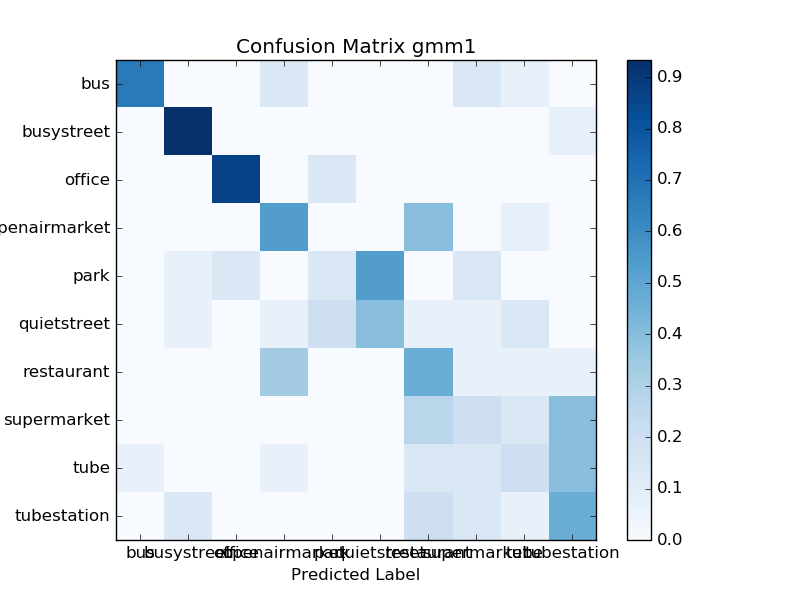
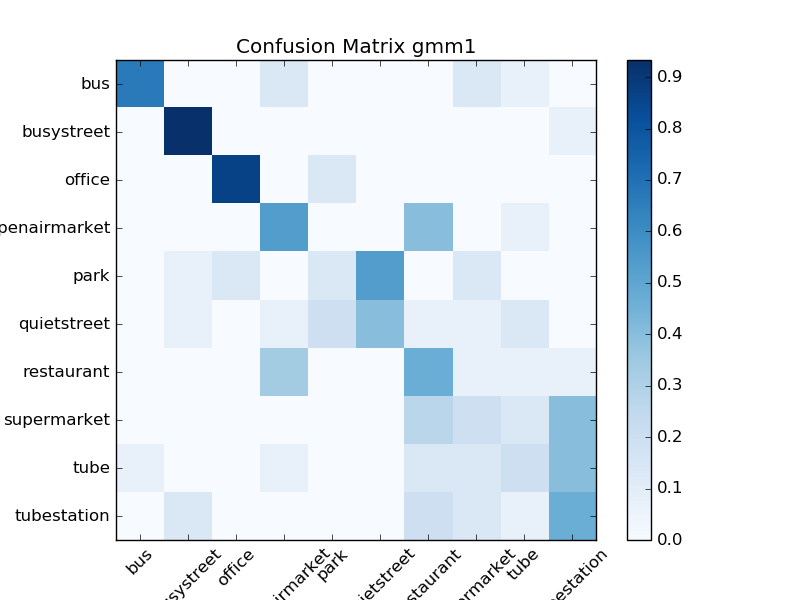
rotation

Changed region(s): [[0.1562, 0.9, 0.7812, 1.0], [0.5625, 0.99, 0.5938, 1.0]]

diff --git a/gmm.py b/gmm.py
@@ -767,7 +767,7 @@ def plot_cm(cm, targets, title='Confusion Matrix', cmap=plt.cm.Blues, norm=True,
     plt.colorbar()
 
     tick_marks = numpy.arange(len(targets))
-    plt.xticks(tick_marks, targets)
+    plt.xticks(tick_marks, targets,rotation=45)
     plt.yticks(tick_marks, targets)
 
     plt.ylabel('True Label')
